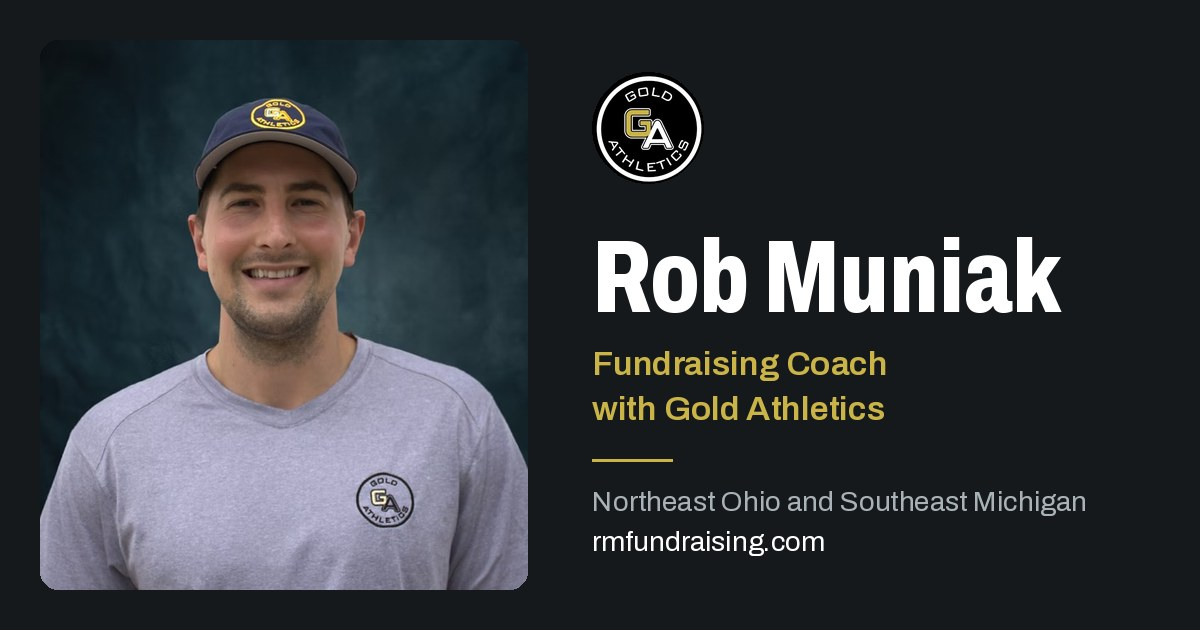
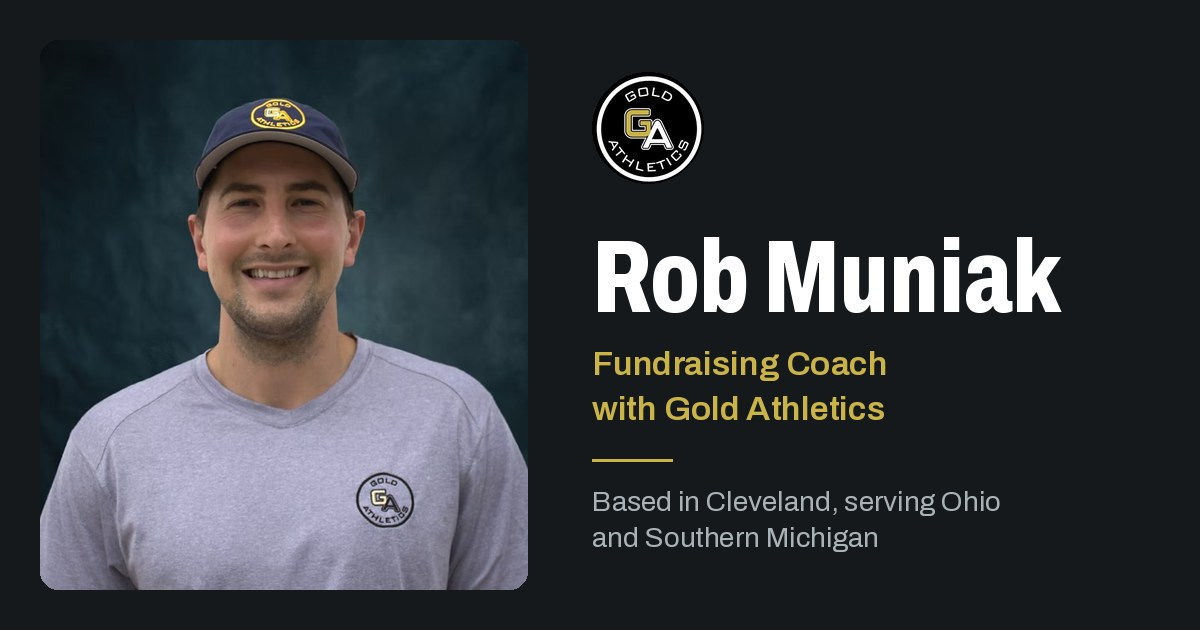
edits

Changed region(s): [[0.4933, 0.7841, 0.925, 0.8143], [0.4933, 0.8444, 0.74, 0.8746]]

diff --git a/index.html b/index.html
@@ -4,7 +4,7 @@
   <meta charset="utf-8">
   <meta name="viewport" content="width=device-width, initial-scale=1, viewport-fit=cover">
   <title>Rob Muniak | Fundraising Coach with Gold Athletics</title>
-  <meta name="description" content="Rob Muniak is a fundraising coach with Gold Athletics, helping high school and youth athletic programs in Greater Cleveland, Northeast Ohio and Southeast Michigan raise more money with less work for coaches.">
+  <meta name="description" content="Rob Muniak is a fundraising coach with Gold Athletics, helping high school and youth athletic programs across Northeast Ohio, Northwest Ohio, the Columbus area and Southern Michigan raise more money with less work for coaches. Based in Cleveland.">
   <link rel="canonical" href="https://rmfundraising.com/">
   <meta name="theme-color" content="#15191c">
   <meta name="color-scheme" content="dark light">
@@ -45,9 +45,10 @@
       "url": "https://goldathletics.com/"
     },
     "areaServed": [
-      { "@type": "Place", "name": "Greater Cleveland, Ohio" },
-      { "@type": "State", "name": "Ohio" },
-      { "@type": "State", "name": "Michigan" }
+      { "@type": "Place", "name": "Northeast Ohio" },
+      { "@type": "Place", "name": "Northwest Ohio" },
+      { "@type": "Place", "name": "Columbus, Ohio" },
+      { "@type": "Place", "name": "Southern Michigan" }
     ]
   }
   </script>
@@ -149,29 +150,13 @@
             <div class="credential-text">
               <span class="credential-name">Rob Muniak</span>
               <span class="credential-role">Fundraising Coach with Gold Athletics</span>
-              <span class="credential-area">Greater Cleveland, Northeast Ohio and Southeast Michigan</span>
+              <span class="credential-area">Based in Cleveland, serving Ohio and Southern Michigan</span>
             </div>
           </figcaption>
         </figure>
 
       </div>
 
-      <div class="wrap">
-        <ul class="advantages" aria-label="Why coaches work with Rob">
-          <li>
-            <h2>I'm Local.</h2>
-            <p>I work directly with programs in Northeast Ohio and Michigan, and I'm there to help get things started.</p>
-          </li>
-          <li>
-            <h2>Something Different.</h2>
-            <p>Gold Athletics offers more than a typical online donation page, so you can pick what fits your team and your community.</p>
-          </li>
-          <li>
-            <h2>Get Paid Fast.</h2>
-            <p>I help programs run efficient fundraisers so the money gets to your team quickly.</p>
-          </li>
-        </ul>
-      </div>
     </section>
 
     <!-- ABOUT -->
@@ -186,19 +171,21 @@
 
         <div class="about-copy">
           <h2 id="about-title" class="section-title">Hey Coach, I'm Rob.</h2>
-          <p>I work with athletic programs throughout Northeast Ohio and Michigan, helping teams raise money without turning fundraising into another big project for your staff.</p>
-          <p>My approach is simple. Make the process easy, help your program raise as much as possible, and be someone you can actually reach when you need something.</p>
+          <p>I'm based in Cleveland and work with teams and school groups across Ohio and Southern Michigan.</p>
+          <p>I take a lot of pride in how I run my fundraisers. I'm very hands on with every group I work with, and I try to take as much work off the coaches' plates as possible. My goal is pretty simple: raise as much money as we can without making it a headache for you.</p>
+          <p>I also want the athletes to get something out of it besides just raising money. I try to teach them some real life skills along the way. I don't want to be the fundraising guy who just shows up and leaves. I want to be involved and help your group from start to finish.</p>
+          <p>On top of that, Gold Athletics gives us some of the best tools out there to make fundraising easy, along with a bunch of different options depending on what works best for your group.</p>
           <p>Whether you're looking to raise a few thousand dollars or put together something bigger, I'm happy to walk you through the options and see what makes sense for your team.</p>
           <p class="signoff">Rob</p>
 
           <dl class="facts">
             <div>
               <dt>Where I work</dt>
-              <dd>Greater Cleveland, Northeast Ohio and Southeast Michigan</dd>
+              <dd>I specialize in Northeast and Northwest Ohio, and I also work with programs in the Columbus area and Southern Michigan. Home base is Cleveland.</dd>
             </div>
             <div>
               <dt>Who I work with</dt>
-              <dd>High school and youth programs: football, wrestling, track, baseball, soccer and everything in between</dd>
+              <dd>High school and youth sports teams, bands, clubs and booster organizations. If your group is raising money, I can help.</dd>
             </div>
           </dl>
         </div>

diff --git a/assets/css/styles.css b/assets/css/styles.css
@@ -365,24 +365,6 @@ ul { padding: 0; list-style: none; }
 .credential-role { margin-top: 6px; font-weight: 600; font-size: 0.95rem; color: var(--gold); line-height: 1.3; }
 .credential-area { margin-top: 4px; font-size: 0.85rem; color: var(--steel); line-height: 1.4; }
 
-/* Advantages */
-.advantages {
-  margin-top: clamp(56px, 8vw, 96px);
-  display: grid;
-  grid-template-columns: repeat(3, minmax(0, 1fr));
-  gap: clamp(24px, 4vw, 56px);
-  border-top: 1px solid var(--line-dark);
-  padding-top: clamp(28px, 4vw, 40px);
-}
-.advantages h2 {
-  font-stretch: 72%;
-  font-weight: 800;
-  font-size: clamp(1.6rem, 1.3rem + 1vw, 2.05rem);
-  line-height: 1;
-  color: var(--gold);
-}
-.advantages p { margin-top: 12px; color: #c9d0d3; max-width: 36ch; }
-
 /* ---------- Light sections ---------- */
 
 .section-light {
@@ -714,9 +696,6 @@ ul { padding: 0; list-style: none; }
   .credential-body { display: block; padding: 0; }
   .credential-logo { width: 48px; height: 48px; margin-bottom: 10px; }
 
-  .advantages { grid-template-columns: 1fr; gap: 0; padding-top: 0; border-top: 0; }
-  .advantages li { padding-block: 24px; border-top: 1px solid var(--line-dark); }
-  .advantages p { max-width: 52ch; }
 
   .about-grid { grid-template-columns: 1fr; }
   .about-photo { max-width: 360px; }
@@ -811,3 +790,8 @@ ul { padding: 0; list-style: none; }
 .notfound { min-height: 70vh; display: grid; align-items: center; padding-block: 80px; }
 .notfound p { margin-top: 18px; color: var(--steel); max-width: 46ch; font-size: 1.1rem; }
 .notfound .cta-row { margin-top: 28px; }
+
+/* Keep Rob's photo beside the longer About text on desktop */
+@media (min-width: 901px) {
+  .about-photo { position: sticky; top: calc(var(--header-h) + 32px); }
+}
